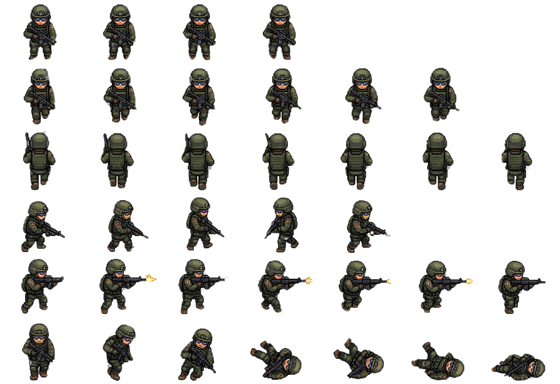
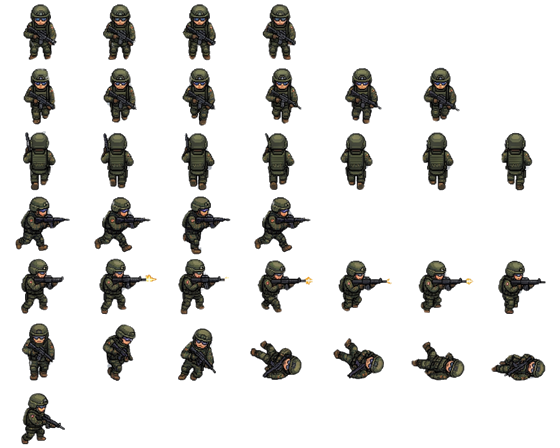
Andar de lado usa so frames de vista lateral
Com apenas WASD, o log de 150 quadros mostra a pose sem nenhuma inversao:
o "giro" que se via era a propria linha da sheet, que alterna tronco de
costas e de frente em 3/4. A 10 fps a alternancia le como o soldado
virando a cada ciclo. A caminhada lateral passa a usar os tres frames de
vista lateral limpa da linha 7 da direita (um repetido para fechar o
ciclo), e o parado de lado ganha uma linha propria, IDLE_SIDE.

Claude-Session: https://claude.ai/code/session_01BFvPtgw9kMF7zPU1xzF5RL

diff --git a/tools/pack_sheet.py b/tools/pack_sheet.py
@@ -29,17 +29,19 @@ ALPHA_MIN = 20          # abaixo disso e fundo
 MIN_AREA = 6            # pontos soltos menores que isso sao lixo
 
 # (nome, linha na grade de origem, colunas na grade de origem, espelhar)
-# Toda linha de lado sai virada para a direita: a unica caminhada lateral
-# coerente da sheet olha para a esquerda, entao e espelhada ao empacotar. O
-# seu segundo frame (coluna 1) fica de fora: mostra o soldado de costas, sem
-# o fuzil, e na animacao parecia virar para o outro lado a cada ciclo.
+# Toda linha de lado sai virada para a direita. A caminhada lateral usa so os
+# tres frames de vista lateral da linha 7 da direita (o 5 repetido fecha o
+# ciclo passo largo / pernas juntas): as outras caminhadas da sheet misturam
+# tronco de costas e de frente em 3/4, e a alternancia parecia um giro. O idle
+# lateral e o frame parado da caminhada da esquerda, espelhado.
 ANIMATIONS = [
     ("idle_down",  0, range(0, 4),      False),
     ("walk_down",  1, range(0, 6),      False),
     ("walk_up",    1, range(7, 14),     False),
-    ("walk_side",  4, [0, 2, 3, 4, 5],  True),
+    ("walk_side",  6, [11, 12, 13, 12], False),
     ("shoot_side", 2, range(7, 14),     False),
     ("death",      7, range(7, 14),     False),
+    ("idle_side",  4, [0],              True),
 ]
 
 

diff --git a/README.md b/README.md
@@ -71,14 +71,17 @@ linha em células de 80×64 com o corpo sempre no centro:
 | 0 | parado, de frente | 4 |
 | 1 | andando para baixo | 6 |
 | 2 | andando para cima | 7 |
-| 3 | andando de lado | 5 |
+| 3 | andando de lado | 4 |
 | 4 | atirando de lado | 7 |
 | 5 | morte | 7 |
+| 6 | parado, de lado | 1 |
 
-Toda linha de lado fica virada para a direita: a única caminhada lateral
-coerente da sheet olha para a esquerda, então o script a espelha ao
-empacotar, e descarta o seu segundo frame, que mostra o soldado de costas e
-fazia a caminhada parecer um giro a cada ciclo. Parado ou atirando, o sprite olha para a mira; andando sem atirar, olha
+Toda linha de lado fica virada para a direita. As caminhadas laterais da
+sheet original misturam tronco de costas e de frente em 3/4, e alternar entre
+eles a 10 fps parecia o soldado girando a cada ciclo; por isso o andar de lado
+usa só os três frames de vista lateral limpa da sheet (um repetido para fechar
+o ciclo passo largo, pernas juntas), e o parado de lado é um frame à parte,
+espelhado da caminhada que olha para a esquerda. Parado ou atirando, o sprite olha para a mira; andando sem atirar, olha
 para onde anda (seguir a mira faria o jogador virar para trás ao passar pelo
 cursor, o que acontece fácil onde a câmera trava nas bordas). A direção é
 quantizada em quatro; para a esquerda o render espelha as linhas de lado. Não há linha de tiro para cima ou para
